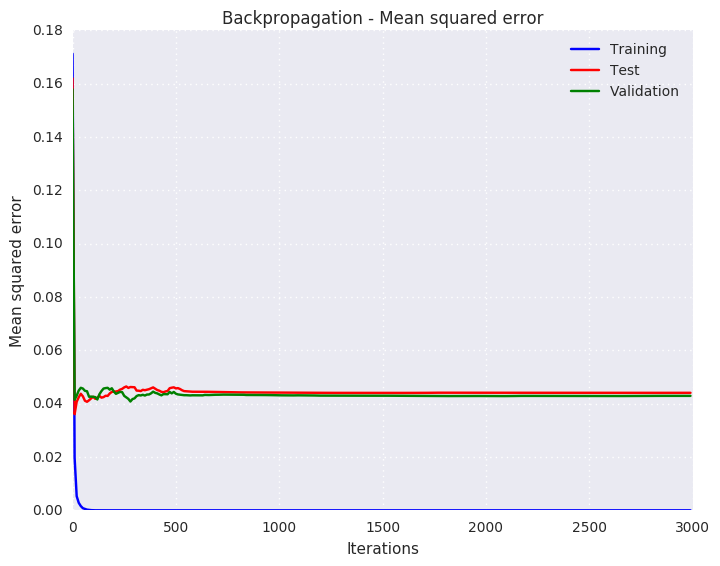
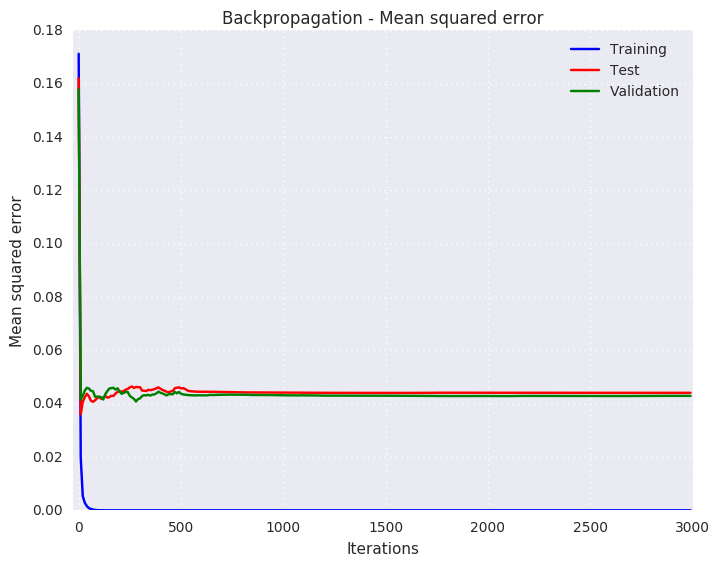
Updated plot names and added GA complexity curve for population

diff --git a/src/nn_plots.py b/src/nn_plots.py
@@ -5,6 +5,7 @@ experiments.
 """
 from helpers import get_abspath, save_dataset
 import pandas as pd
+import numpy as np
 import matplotlib
 matplotlib.use('agg')
 import seaborn as sns
@@ -178,7 +179,7 @@ def combined_acc(df):
     plt.clf()
 
 
-def combined_timing(df):
+def combined_time(df):
     """Generates a plot for comparing elapsed time across the various
     optimization algorithms and saves it as a PNG file.
 
@@ -188,10 +189,10 @@ def combined_timing(df):
     """
     # get columns
     iters = df['iteration']
-    bp_time = df['bp_time'] / 60
-    rhc_time = df['rhc_time'] / 60
-    sa_time = df['sa_time'] / 60
-    ga_time = df['ga_time'] / 60
+    bp_time = np.log(df['bp_time'])
+    rhc_time = np.log(df['rhc_time'])
+    sa_time = np.log(df['sa_time'])
+    ga_time = np.log(df['ga_time'])
 
     # create timing curve for train dataset
     plt.figure(0)
@@ -208,11 +209,11 @@ def combined_timing(df):
     plt.grid(linestyle='dotted')
     plt.title('Algorithm Comparison - Elapsed Time')
     plt.xlabel('Iterations')
-    plt.ylabel('Time (minutes)')
+    plt.ylabel('Log time')
 
     # save timing curve plot as PNG
     plotdir = 'plots/NN/combined'
-    plotpath = get_abspath('elapsed_time.png', plotdir)
+    plotpath = get_abspath('timing_curve.png', plotdir)
     plt.savefig(plotpath, bbox_inches='tight')
     plt.clf()
 
@@ -240,6 +241,7 @@ def error_curve(df, oaName, title):
     plt.plot(iterations, MSE_train, color='b', label='Training')
     plt.plot(iterations, MSE_test, color='r', label='Test')
     plt.plot(iterations, MSE_valid, color='g', label='Validation')
+    plt.xlim(xmin=-30)
     plt.legend(loc='best')
     plt.grid(linestyle='dotted')
     plt.title('{} - Mean squared error'.format(title))
@@ -276,6 +278,7 @@ def learning_curve(df, oaName, title):
     plt.plot(iterations, acc_train, color='b', label='Training')
     plt.plot(iterations, acc_test, color='r', label='Test')
     plt.plot(iterations, acc_valid, color='g', label='Validation')
+    plt.xlim(xmin=-30)
     plt.legend(loc='best')
     plt.grid(linestyle='dotted')
     plt.title('{} - Learning Curve'.format(title))
@@ -285,19 +288,14 @@ def learning_curve(df, oaName, title):
     # save learning curve plot as PNG
     plotdir = 'plots/NN'
     plot_tgt = '{}/{}'.format(plotdir, oaName)
-    plotpath = get_abspath('{}_VC.png'.format(oaName), plot_tgt)
+    plotpath = get_abspath('{}_LC.png'.format(oaName), plot_tgt)
     plt.savefig(plotpath, bbox_inches='tight')
     plt.clf()
 
 
-def sa_complexity_curve():
-    """Plots the cooling rate complexity curve for the simulated annealing
+def sa_validation_curve():
+    """Plots the cooling rate validation curve for the simulated annealing
     algorithm and saves it as a PNG file.
-
-    Args:
-        df (Pandas.DataFrame): Dataset.
-        oaName (str): Name of optimization algorithm.
-        title (str): Plot title.
 
     """
     # load datasets
@@ -324,43 +322,105 @@ def sa_complexity_curve():
     train_90 = df_90['MSE_train']
     test_90 = df_90['MSE_test']
 
-    # create complexity curve for training data
+    # create validation curve for training data
     plt.figure(0)
-    plt.plot(iters, train_15, color='b', label='CR - 0.15')
-    plt.plot(iters, train_30, color='g', label='CR - 0.30')
-    plt.plot(iters, train_45, color='r', label='CR - 0.45')
-    plt.plot(iters, train_60, color='c', label='CR - 0.60')
-    plt.plot(iters, train_75, color='k', label='CR - 0.75')
-    plt.plot(iters, train_90, color='m', label='CR - 0.90')
+    plt.plot(iters, train_15, color='b', label='CR: 0.15')
+    plt.plot(iters, train_30, color='g', label='CR: 0.30')
+    plt.plot(iters, train_45, color='r', label='CR: 0.45')
+    plt.plot(iters, train_60, color='c', label='CR: 0.60')
+    plt.plot(iters, train_75, color='k', label='CR: 0.75')
+    plt.plot(iters, train_90, color='m', label='CR: 0.90')
     plt.legend(loc='best')
     plt.grid(linestyle='dotted')
     plt.title('SA Validation Curve - Cooling Rate (train)')
     plt.xlabel('Iterations')
     plt.ylabel('Mean squared error')
 
-    # save complexity curve plot as PNG
+    # save train validation curve plot as PNG
     plotdir = 'plots/NN/SA'
     plotpath = get_abspath('SA_CR_train.png', plotdir)
     plt.savefig(plotpath, bbox_inches='tight')
     plt.clf()
 
-    # create complexity curve for test data
+    # create validation curve for test data
     plt.figure(0)
-    plt.plot(iters, test_15, color='b', label='CR - 0.15')
-    plt.plot(iters, test_30, color='g', label='CR - 0.30')
-    plt.plot(iters, test_45, color='r', label='CR - 0.45')
-    plt.plot(iters, test_60, color='c', label='CR - 0.60')
-    plt.plot(iters, test_75, color='k', label='CR - 0.75')
-    plt.plot(iters, test_90, color='m', label='CR - 0.90')
+    plt.plot(iters, test_15, color='b', label='CR: 0.15')
+    plt.plot(iters, test_30, color='g', label='CR: 0.30')
+    plt.plot(iters, test_45, color='r', label='CR: 0.45')
+    plt.plot(iters, test_60, color='c', label='CR: 0.60')
+    plt.plot(iters, test_75, color='k', label='CR: 0.75')
+    plt.plot(iters, test_90, color='m', label='CR: 0.90')
     plt.legend(loc='best')
     plt.grid(linestyle='dotted')
     plt.title('SA Validation Curve - Cooling Rate (test)')
     plt.xlabel('Iterations')
     plt.ylabel('Mean squared error')
 
-    # save learning curve plot as PNG
+    # save test validation curve plot as PNG
     plotdir = 'plots/NN/SA'
     plotpath = get_abspath('SA_CR_test.png', plotdir)
+    plt.savefig(plotpath, bbox_inches='tight')
+    plt.clf()
+
+
+def ga_population_curve():
+    """Plots the population size validation curve for genetic algorithms and
+    saves it as a PNG file.
+
+    """
+    # load datasets
+    resdir = 'results/NN/GA'
+    df_50 = pd.read_csv(get_abspath('results_50_10_10.csv', resdir))
+    df_100 = pd.read_csv(get_abspath('results_100_10_10.csv', resdir))
+    df_150 = pd.read_csv(get_abspath('results_150_10_10.csv', resdir))
+    df_200 = pd.read_csv(get_abspath('results_200_10_10.csv', resdir))
+
+    # get columns
+    iters = df_50['iteration']
+    train_50 = df_50['MSE_train']
+    test_50 = df_50['MSE_test']
+    train_100 = df_100['MSE_train']
+    test_100 = df_100['MSE_test']
+    train_150 = df_150['MSE_train']
+    test_150 = df_150['MSE_test']
+    train_200 = df_200['MSE_train']
+    test_200 = df_200['MSE_test']
+
+    # create validation curve for training data
+    plt.figure(0)
+    plt.plot(iters, train_50, color='b', label='Population: 50')
+    plt.plot(iters, train_100, color='g', label='Population: 100')
+    plt.plot(iters, train_150, color='r', label='Population: 150')
+    plt.plot(iters, train_200, color='r', label='Population: 200')
+    plt.xlim(xmin=-30)
+    plt.legend(loc='best')
+    plt.grid(linestyle='dotted')
+    plt.title('GA Validation Curve - Population Size (train)')
+    plt.xlabel('Iterations')
+    plt.ylabel('Mean squared error')
+
+    # save complexity curve plot as PNG
+    plotdir = 'plots/NN/GA'
+    plotpath = get_abspath('GA_P_train.png', plotdir)
+    plt.savefig(plotpath, bbox_inches='tight')
+    plt.clf()
+
+    # create complexity curve for test data
+    plt.figure(0)
+    plt.plot(iters, test_50, color='b', label='Population: 50')
+    plt.plot(iters, test_100, color='g', label='Population: 100')
+    plt.plot(iters, test_150, color='r', label='Population: 150')
+    plt.plot(iters, test_200, color='r', label='Population: 200')
+    plt.xlim(xmin=-30)
+    plt.legend(loc='best')
+    plt.grid(linestyle='dotted')
+    plt.title('GA Validation Curve - Population Size (test)')
+    plt.xlabel('Iterations')
+    plt.ylabel('Mean squared error')
+
+    # save learning curve plot as PNG
+    plotdir = 'plots/NN/GA'
+    plotpath = get_abspath('GA_P_test.png', plotdir)
     plt.savefig(plotpath, bbox_inches='tight')
     plt.clf()
 
@@ -385,6 +445,10 @@ if __name__ == '__main__':
     learning_curve(SA, oaName='SA', title='Simulated Annealing')
     learning_curve(GA, oaName='GA', title='Genetic Algorithms')
 
+    # generate validation curves
+    sa_validation_curve()
+    ga_population_curve()
+
     # generate combined dataset
     datafiles = {'BP': BP, 'RHC': RHC, 'SA': SA, 'GA': GA}
     combine_datasets(datafiles)
@@ -393,5 +457,4 @@ if __name__ == '__main__':
     combined = pd.read_csv(get_abspath('combined/combined.csv', resdir))
     combined_error(combined)
     combined_acc(combined)
-    combined_timing(combined)
-    sa_complexity_curve()
+    combined_time(combined)
